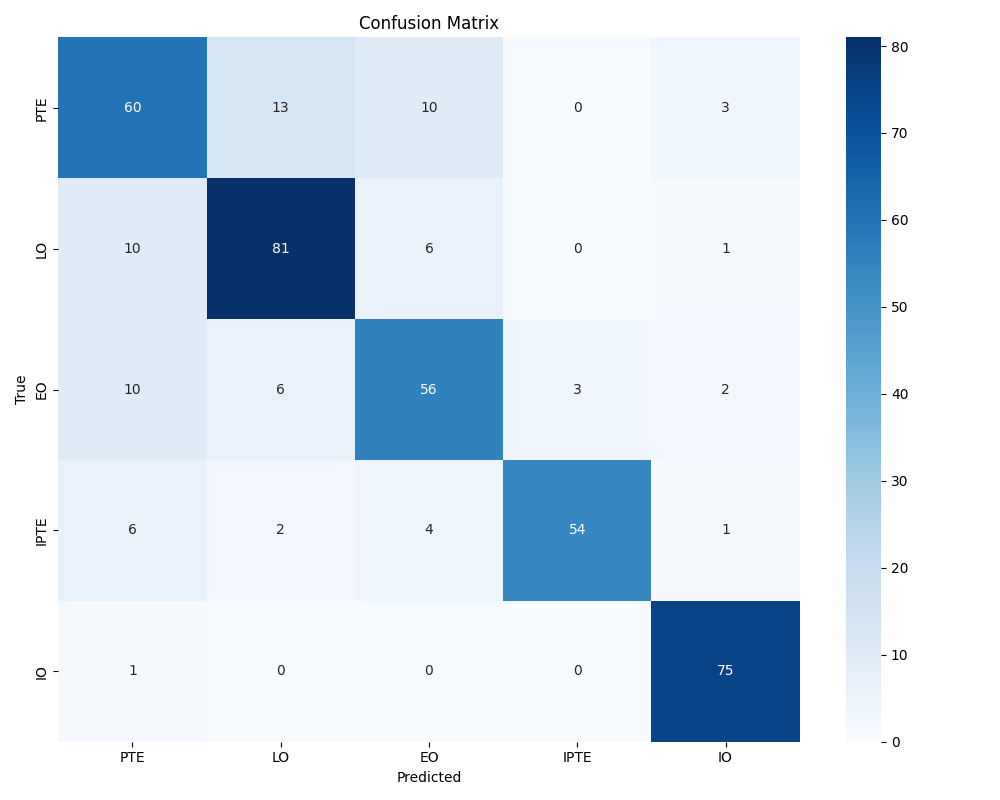
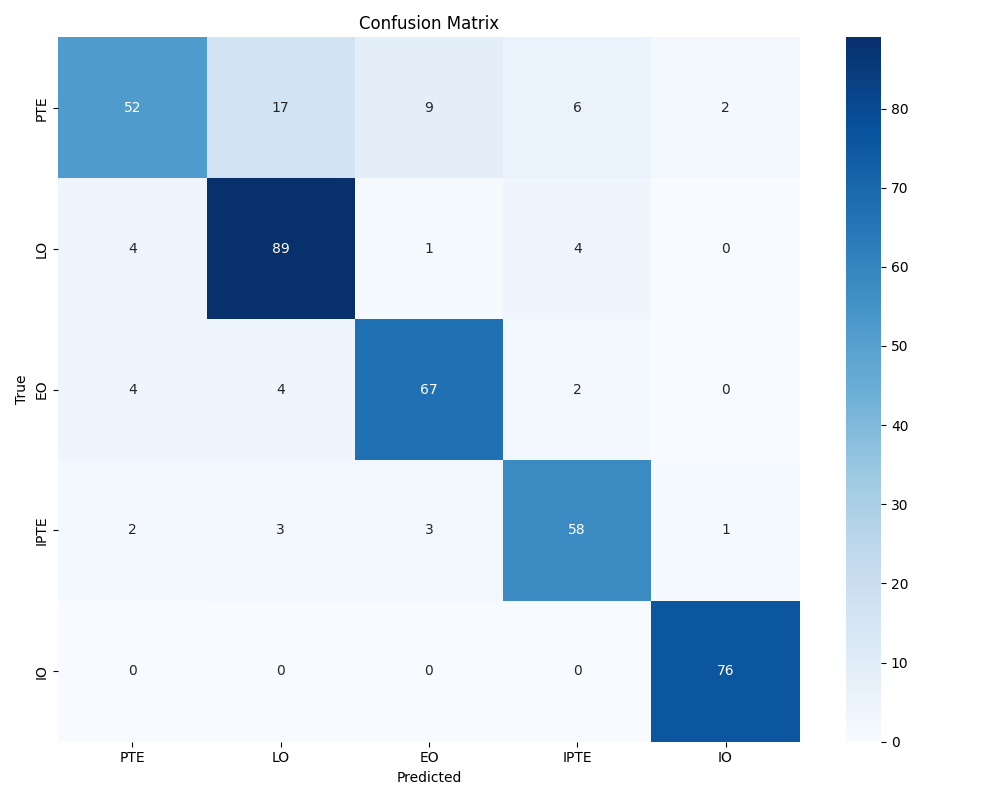
hyperparameter tuning readme added

diff --git a/README.md b/README.md
@@ -284,22 +284,61 @@ Trainable params: 13,235,013
 Non-trainable params: 0
 Total mult-adds (Units.MEGABYTES): 752.84
 ==========================================================================================
-Input size (MB): 0.60
-Forward/backward pass size (MB): 24.09
-Params size (MB): 52.94
-Estimated Total Size (MB): 77.63
-==========================================================================================
 ```
 
 ## Hyperparameter Tuning
 
-Optuna was used for hyperparameter tuning to optimize the performance of both models. Training progress was monitored using TensorBoard. All training and hyperparameter tuning were done on a T4 GPU on Kaggle and google colab. In order to run the hyperparameter tuning, the `src/hyperparameter_tuning.py` file can be used.
+Optuna was used for hyperparameter tuning to optimize the performance of both models. Training progress was monitored using TensorBoard. All training and hyperparameter tuning were done on a T4 GPU on Kaggle. In order to run the hyperparameter tuning, the `src/hyperparameter_tuning.py` file can be used.
 
 ```bash
 uv run src/hyperparameter_tuning.py --dataset_config configs/dataset_config.json --model_config configs/<model_name>_config.json
 ```
 
-After having trained the models, the best hyperparameters were found to be:
+## Hyperparameter Tuning Details
+
+The hyperparameter tuning process uses Optuna to optimize several key parameters for both models. Here's a detailed breakdown of the tuned hyperparameters:
+
+### Common Hyperparameters for Both Models
+
+1. **Optimizer Selection and Parameters**:
+
+    - Optimizer type: Adam, AdamW, SGD, or RMSprop
+    - Learning rate: 1e-5 to 1e-3 (log scale)
+    - Weight decay: 1e-5 to 1e-3 (log scale)
+    - For Adam/AdamW: beta1 (0.8-0.99) and beta2 (0.9-0.9999)
+    - For SGD: momentum (0.8-0.99) and nesterov momentum (True/False)
+    - For RMSprop: momentum (0.8-0.99) and alpha (0.8-0.99)
+
+2. **Learning Rate Scheduler**:
+
+    - Scheduler type: ReduceLROnPlateau, CosineAnnealingLR, or OneCycleLR
+    - For ReduceLROnPlateau:
+        - Factor: 0.1-0.5
+        - Patience: 3-10 epochs
+        - Minimum learning rate: 1e-6 to 1e-4
+    - For CosineAnnealingLR:
+        - T_max: 10-100
+        - Minimum learning rate: 1e-6 to 1e-4
+    - For OneCycleLR:
+        - Maximum learning rate: 1e-4 to 1e-2
+        - Total steps: 100-1000
+        - Percentage of warmup: 10-30%
+        - Division factors: 10-100 (initial), 100-1000 (final)
+
+3. **Training Parameters**:
+    - Batch size: 16, 32, or 64
+    - Dropout rate: 0.3 to 0.7
+
+### Model-Specific Hyperparameters
+
+1. **ResNet50 Model**:
+
+    - Hidden size: 256, 512, or 1024 (for the custom classification head)
+
+2. **Custom Neuroflux Model**:
+    - Convolutional channels: 16, 32, or 64 (for the initial convolutional layer)
+
+The optimization process runs for 50 trials with a 1-hour timeout, using validation accuracy as the optimization metric. The best hyperparameters are saved in JSON format in the `output/hyperparameter_tuning` directory.
 
 ## Performance Metrics
 
@@ -315,20 +354,21 @@ The models are evaluated using multiple metrics:
 
 ### Model 1: Transfer Learning with ResNet50
 
-Training results of the transfer learning using the ResNet50 model without any hyperparameter tuning on an Nvidia GeForce RTX 3050 Ti GPU are as follows:
+Training results of the transfer learning using the ResNet50 model without any hyperparameter tuning on an T4 GPU on Kaggle are as follows:
 
 ```
               precision    recall  f1-score   support
 
-         PTE       0.69      0.70      0.69        86
-          LO       0.79      0.83      0.81        98
-          EO       0.74      0.73      0.73        77
-        IPTE       0.95      0.81      0.87        67
-          IO       0.91      0.99      0.95        76
+         PTE       0.84      0.60      0.70        86
+          LO       0.79      0.91      0.84        98
+          EO       0.84      0.87      0.85        77
+        IPTE       0.83      0.87      0.85        67
+          IO       0.96      1.00      0.98        76
 
-    accuracy                           0.81       404
-   macro avg       0.82      0.81      0.81       404
-weighted avg       0.81      0.81      0.81       404
+    accuracy                           0.85       404
+   macro avg       0.85      0.85      0.85       404
+weighted avg       0.85      0.85      0.84       404
+
 ```
 
 ![ResNet50 confusion matrix](./images/resnet50/confusion_matrix_no_optuna.png)
@@ -341,7 +381,7 @@ The results for the ResNet50 model with hyperparameter tuning are as follows:
 
 ### Model 2: Custom CNN
 
-Training results of the custom CNN model without any hyperparameter tuning on an Nvidia GeForce RTX 3050 Ti GPU are as follows:
+Training results of the custom CNN model without any hyperparameter tuning on an T4 GPU on Kaggle are as follows:
 
 ```
               precision    recall  f1-score   support
